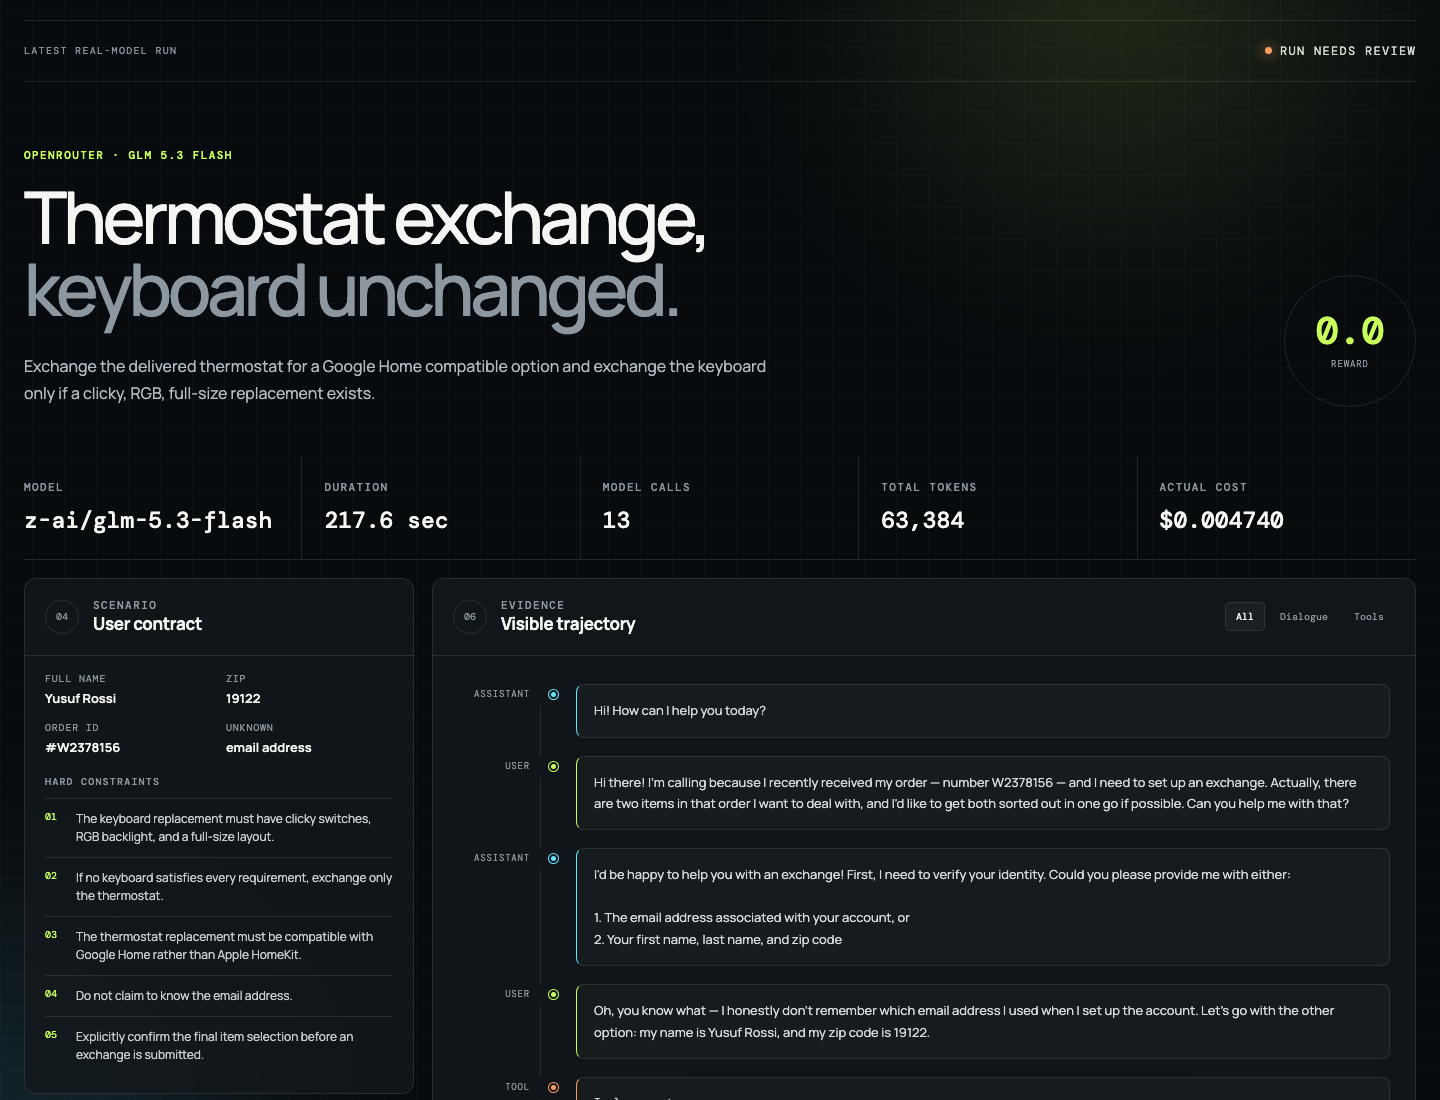
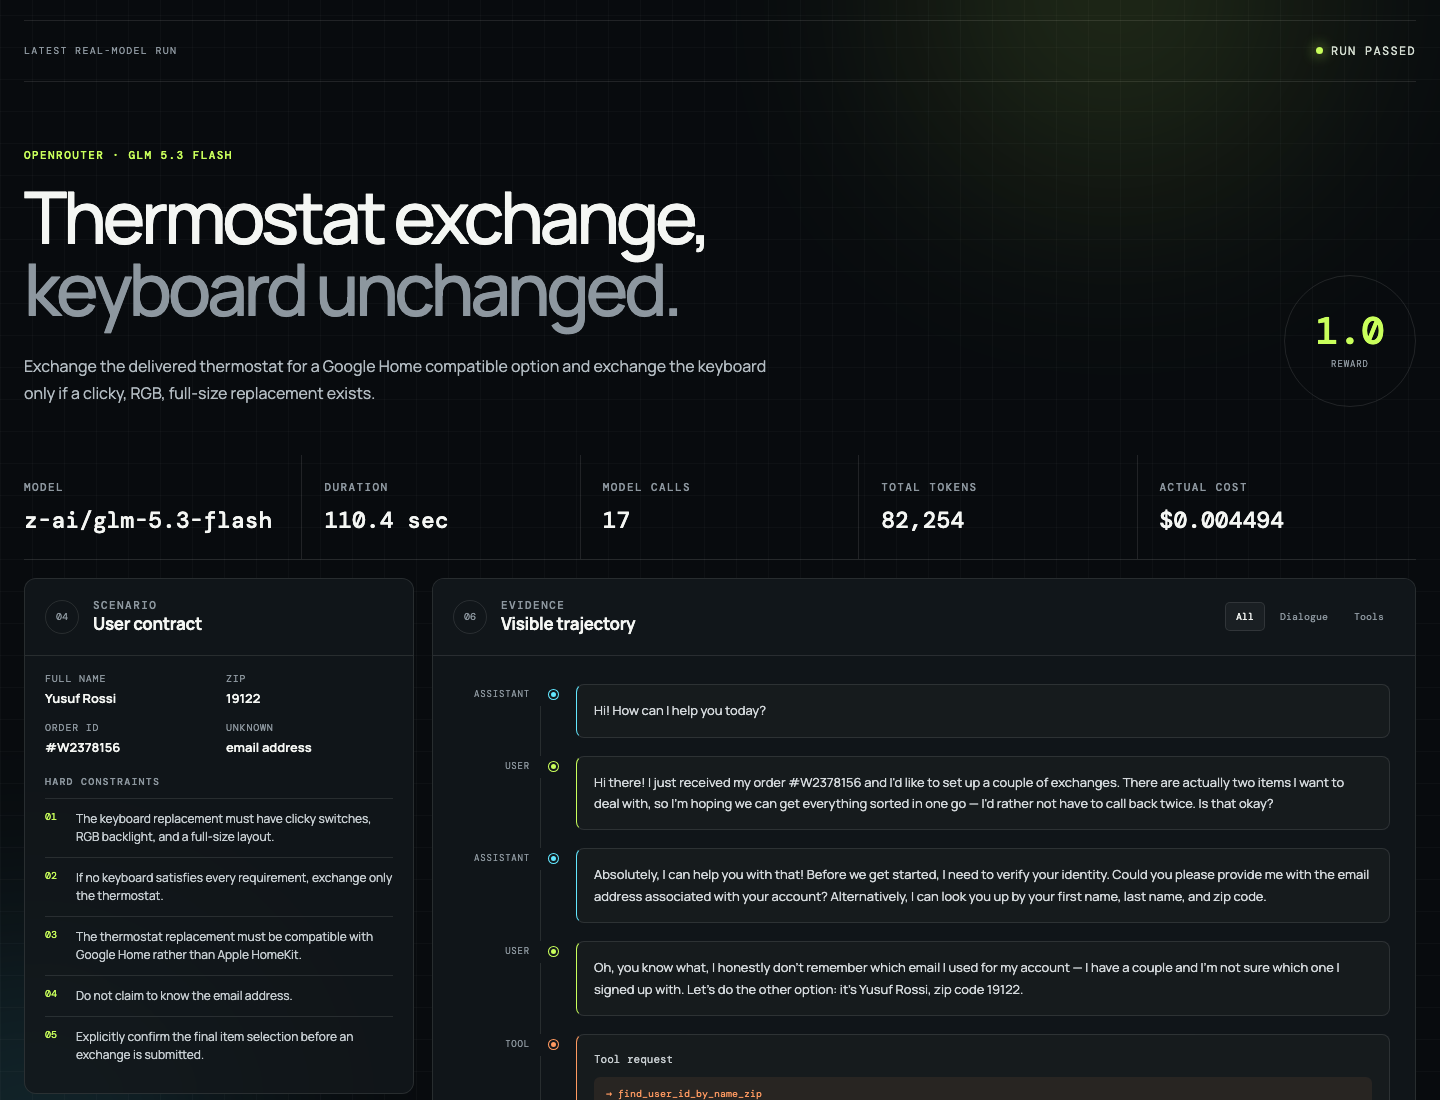
docs: present successful OpenRouter result

diff --git a/web/chat/index.html b/web/chat/index.html
@@ -11,7 +11,7 @@
     <main class="page-shell">
       <header class="masthead">
         <a class="wordmark" href="/">NEXT / TURN</a>
-        <div class="status"><span></span> local harness</div>
+        <div class="status"><span></span> controlled agent · no LLM</div>
       </header>
 
       <section class="intro">
@@ -26,7 +26,7 @@
       <section class="chat-card" data-chat-shell data-next-turn-id="turn-1">
         <div class="chat-header">
           <div>
-            <p class="label">Active test</p>
+            <p class="label">Controlled test behavior</p>
             <h2 data-behavior-label>Starting session…</h2>
           </div>
           <span class="session-state" data-session-state>connecting</span>

diff --git a/README.md b/README.md
@@ -20,11 +20,11 @@ by turn ID rather than a fixed delay.
 
 The result dashboard below shows a separate, real OpenRouter run using
 `z-ai/glm-5.3-flash` for both the tau2 agent and user simulator. This bounded
-trial made 13 model calls and timed out with reward `0`; the dashboard preserves
-the visible trajectory, 63,384 total tokens, and the returned US$0.004740 cost
-for review.
+trial made 17 model calls, matched all five expected actions, and finished with
+reward `1.0` and a database match. The dashboard preserves the visible
+trajectory, 82,254 total tokens, and the returned US$0.004494 cost for review.
 
-![Real OpenRouter timeout result dashboard](docs/images/openrouter-result-dashboard.png)
+![Successful real OpenRouter result dashboard](docs/images/openrouter-result-dashboard.png)
 
 ## Current scope
 
@@ -93,9 +93,10 @@ npm run run:tau2:openrouter
 ```
 
 This runs only retail task `"1"` with one trial, one concurrent worker, no
-automatic retries, a 24-step limit, and a 180-second timeout. The result summary
-uses OpenRouter's raw per-response cost because tau2's pinned LiteLLM price map
-does not yet recognize this model.
+automatic retries, a 24-step limit, and a configurable 360-second timeout. Set
+`TAU2_TIMEOUT_SECONDS` to use a different positive-integer bound. The result
+summary uses OpenRouter's raw per-response cost because tau2's pinned LiteLLM
+price map does not yet recognize this model.
 
 ### Pinned tau-bench environment
 
